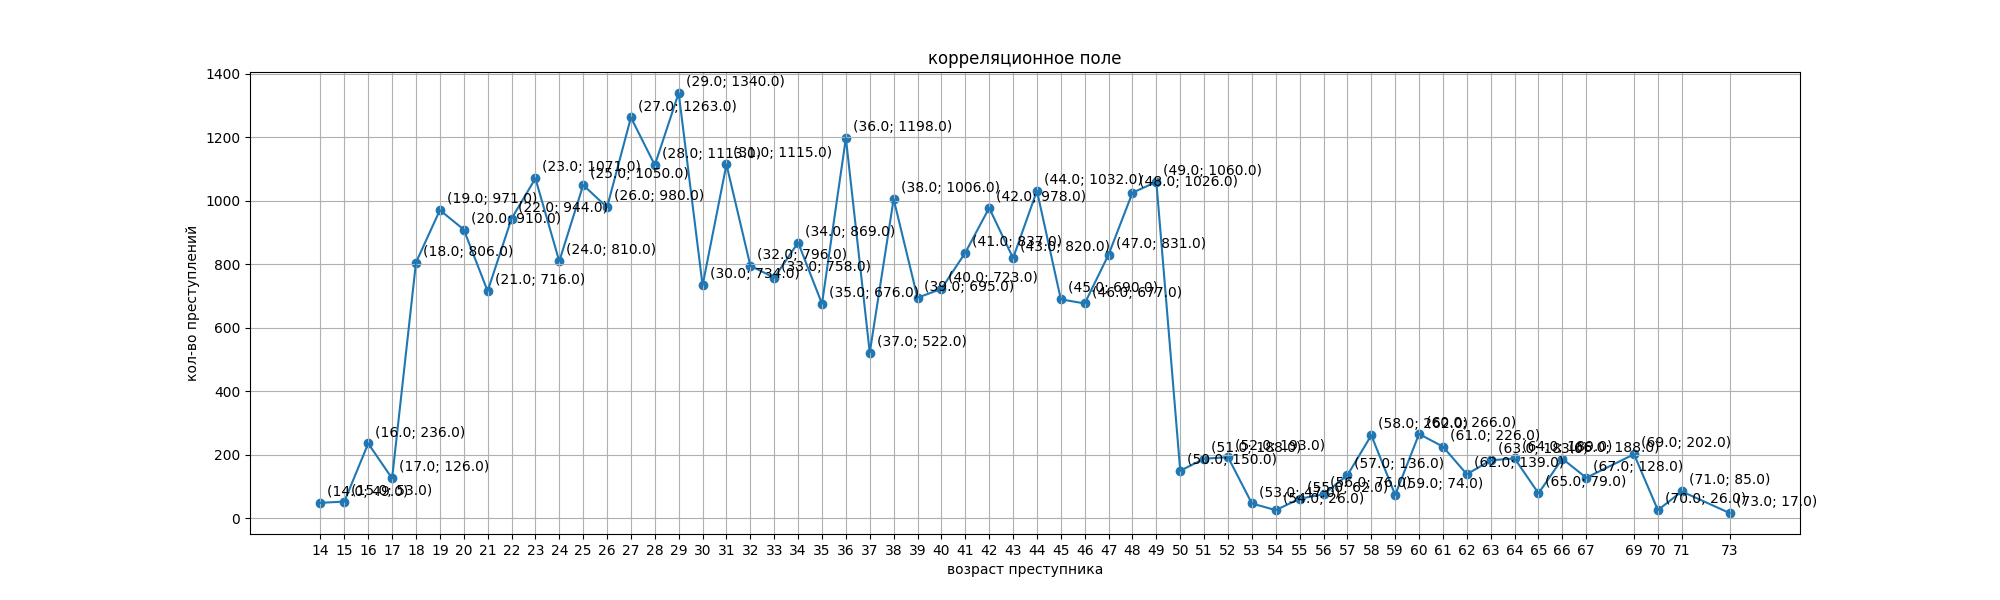
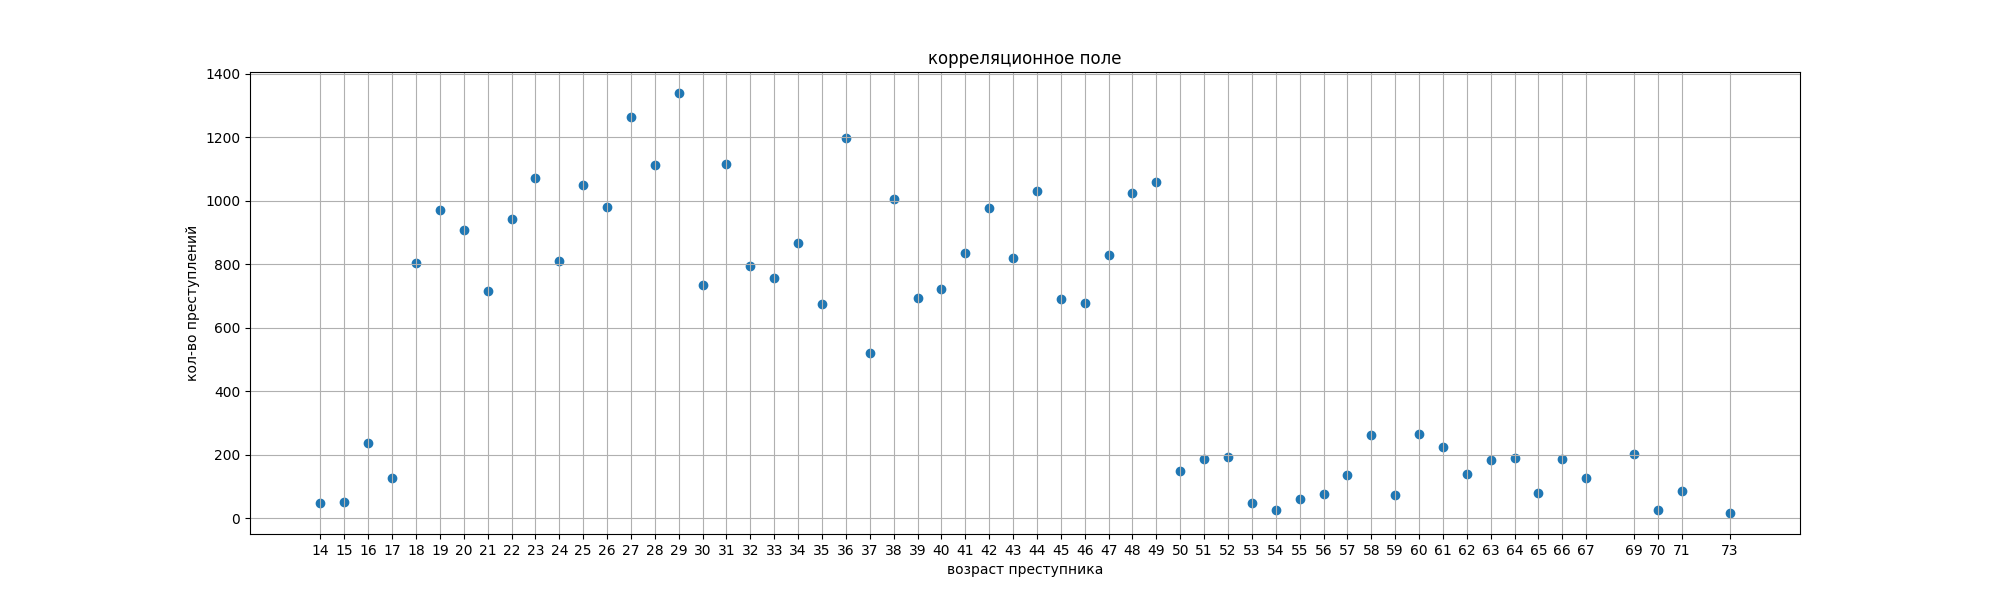
work was completed successfully

diff --git a/LR4.2.py b/LR4.2.py
@@ -1,0 +1,217 @@
+import math
+from math import isclose
+from scipy.stats import rankdata
+
+f = open('Москва_2021.txt', 'r')
+data = sorted([int(i) for i in f.read().split()])
+groups = 7   # число интервалов
+uniques = sorted(list(set(data)))
+interval = math.ceil((max(data) - min(data)) / groups)
+
+# интервальный ряд
+amounts = []
+freqs = []
+for i in range(groups):
+    a = min(data) + i * interval
+    b = a + interval if i < groups - 1 else max(data) + 1  
+    amounts.append((a, b))
+    freqs.append(sum(1 for x in data if a <= x < b))
+
+# print("\nИнтервальный ряд:")
+# for (a, b), f in zip(amounts, freqs):
+#     print(f"[{a}; {b}) : {f}")
+
+number_of_repetitions = {}
+# print("Дискретные ряды:")
+# print("№, Число Кол-во повторений")
+for i in range(len(uniques)):
+    x = uniques[i]
+    frequences = data.count(uniques[i])
+    # print(i + 1, ':', x, '       ', frequences)
+    number_of_repetitions[x] = frequences
+
+# print(number_of_repetitions)
+
+''' Для вычисления внутригрупповой дисперсии, необходимо вычислить
+груповую дисперсию. Для вычисления групповой дисперсии нужно найти 
+групповую среднюю. Групповая средняя = 
+'''
+
+# 1 - вычислить внутригрупповую и межгрупповую дисперсию, проверить справедливость формулы общей дисперсии. 
+
+group_mean = []  # групповая средняя
+for (a, b) in amounts:
+    # Отбираем данные, попадающие в текущий интервал
+    group_data = [x for x in data if a <= x < b]
+    ''' if len(group_data) == 0:
+        group_mean.append(None)  # если данных нет, то None
+        continue '''
+
+    # вычисляем среднее по формуле
+    x_sum = sum(x * number_of_repetitions[x] for x in uniques if a <= x < b)
+    N_j = sum(number_of_repetitions[x] for x in uniques if a <= x < b)
+    x_mean_j = x_sum / N_j
+    group_mean.append(x_mean_j)
+
+# вывод групповых средних
+# print("\nГрупповые средние:")
+# for i, (interval_bounds, mean) in enumerate(zip(amounts, group_mean), start=1):
+#     a, b = interval_bounds
+#     print(f"Группа {i}: [{a}; {b}) → средняя = {mean:.4f}")
+
+
+# вычисление внутригрупповой, межгрупповой и общей дисперсий 
+
+N_total = len(data)
+overall_mean = sum(data) / N_total
+
+group_stats = []
+for (a, b), mean_j in zip(amounts, group_mean):
+    group_data = [x for x in data if a <= x < b]
+    N_j = len(group_data)
+
+    # групповая дисперсия по формуле 𝐷𝑗гр = (1/𝑁𝑗) * sum(𝑥𝑖 − 𝑥̅𝑗)^2 ∙ 𝑛i
+    D_j_gr = sum(((x - mean_j) ** 2) * number_of_repetitions[x] 
+                 for x in uniques if a <= x < b) / N_j
+    group_stats.append((N_j, mean_j, D_j_gr))
+
+# print(*[group_stats[i][2] for i in range(groups)])
+
+# Внутригрупповая: взвешенное среднее по объёмам групп 𝐷внгр = (1/𝑁) * sum(𝐷𝑗гр ∙ 𝑁j)
+D_within = 0.0  # начальное значение внутригрупповой дисперсии
+for gs in group_stats:
+    N_j = gs[0]   # число элементов в группе
+    D_j = gs[2]   # групповая дисперсия
+
+    D_within += D_j * N_j
+D_within = D_within / N_total
+
+# Межгрупповая: дисперсия групповых средних относительно общей средней 𝐷межгр = (1/𝑁) * sum(𝑥̅𝑗 − 𝑥̅)^2 * 𝑁j
+D_between = 0.0
+for gs in group_stats:
+    N_j = gs[0]
+    mean_j = gs[1] # среднее группы
+    D_between += (mean_j - overall_mean) ** 2 * N_j 
+D_between = D_between / N_total
+
+
+# общая дисперсия по всей совокупности 𝐷общ = 1/𝑁 * sum(𝑥𝑖 − 𝑥̅)^2 ∙ 𝑛i
+D_overall = sum(((x - overall_mean) ** 2) * number_of_repetitions[x] 
+                for x in uniques) / N_total
+
+# Вывод
+print("\nСтатистика по группам")
+for idx, ((a,b), (N_j, mean_j, D_j)) in enumerate(zip(amounts, group_stats), start=1):
+    print(f"Группа {idx}: [{a};{b}) — сумма частот в группе ={N_j}, групповая ср. = {mean_j:.4f}, групповая дисп.= {D_j:.6f}")
+
+print("\nДисперсии")
+print(f"Общая средняя (N={N_total}): {overall_mean:.4f}")
+print(f"Внутригрупповая D_вн_гр = {D_within:.6f}")
+print(f"Межгрупповая  D_меж_гр = {D_between:.6f}")
+print(f"Общая D_общ = {D_overall:.6f}")
+
+# Проверка теоремы D_общ = D_вн_гр + D_меж_гр
+sum_parts = D_within + D_between
+diff = D_overall - sum_parts
+print(f"\nПроверка теоремы D_вн_гр + D_меж_гр = D_общ")
+if D_within + D_between == D_overall:
+    print('Теорема выполняется')
+    print(f"{D_within:.3f} + {D_between:.3f} = {D_overall:.3f}")
+else:
+    print('Теорема не выполняется')
+    print(f"{D_within:.3f} + {D_between:.3f} = {D_overall:.3f}")
+
+
+# 2 - Вычислить корреляционное отношение
+'''
+Корреляционной называется зависимость, при которой каждому значению величины X 
+ставится в соответствие среднее значение величины Y
+
+Корреляционное отношение показывает тесноту и форму связи между двумя переменными
+Оно измеряет, насколько хорошо одна переменная может быть предсказана на основе другой, 
+и всегда принимает значения от 0 до 1, где 1 означает полную зависимость вариации y от х. 
+ η^2 = Dмежгрупп/Dобщ
+'''
+eta_squared = D_between / D_overall
+print('\n№ 2')
+print(f"Корреляционное отношение η² = {eta_squared:.4f}")
+print(f"Корреляционное отношение η = {math.sqrt(eta_squared):.4f}")
+
+
+# 3 - Найти коэффициент ранговой корреляции Спирмена
+
+# X — уникальные значения возраста
+X = uniques.copy()
+
+# Y — частоты появления каждого возраста
+Y = [number_of_repetitions[x] for x in X]
+
+# присвоение рангов (средний ранг при повторениях)
+rank_X = rankdata(X)
+rank_Y = rankdata(Y)
+print("\n№ 3 — Ранговая корреляция Спирмена")
+
+# print("X(возраст): | Y (частоты): | Ранг X | Ранг Y")
+# print("-" * 50)
+# for i in range(len(X)):
+#     print(f"{X[i]:10} | {Y[i]:8} | {rank_X[i]:10} | {rank_Y[i]:8}")
+
+# Проверяем, есть ли повторяющиеся ранги
+unique_ranks_X = len(set(rank_X)) == len(rank_X)
+unique_ranks_Y = len(set(rank_Y)) == len(rank_Y)
+
+# Если все ранги уникальны, то простая формула
+if unique_ranks_X and unique_ranks_Y:
+    d_squared_sum = 0.0
+    for i in range(len(rank_X)):
+        d_squared_sum += (rank_X[i] - rank_Y[i]) ** 2
+    n = len(rank_X)
+    r_s = 1 - (6 * d_squared_sum) / (n * (n ** 2 - 1))
+    print(f"\nСумма квадратов разностей рангов: {d_squared_sum:.4f}")
+
+else:
+    mean_rank_X = sum(rank_X) / len(rank_X)
+    mean_rank_Y = sum(rank_Y) / len(rank_Y)
+
+    numerator = 0
+    sum_sq_x = 0
+    sum_sq_y = 0
+
+    for i in range(len(rank_X)):
+        dx = rank_X[i] - mean_rank_X
+        dy = rank_Y[i] - mean_rank_Y
+        numerator += dx * dy
+        sum_sq_x += dx ** 2
+        sum_sq_y += dy ** 2
+
+    denominator = math.sqrt(sum_sq_x * sum_sq_y)
+    r_s = numerator / denominator if denominator != 0 else 0
+
+    print(f"\nСредние значения рангов: X̄ = {mean_rank_X:.3f}, Ȳ = {mean_rank_Y:.3f}")
+
+print(f"Коэффициент ранговой корреляции Спирмена r_s = {r_s:.4f}")
+
+# if r_s == 1:
+#     print("Идеальная положительная монотонная связь: ранги полностью совпадают.")
+# elif r_s == -1:
+#     print("Идеальная отрицательная монотонная связь: ранги полностью противоположны.")
+# elif r_s == 0:
+#     print("Отсутствие монотонной связи между переменными.")
+# else:
+#     direction = "положительная" if r_s > 0 else "отрицательная"
+#     abs_r_s = abs(r_s)
+
+#     if 0.1 <= abs_r_s < 0.3:
+#         strength = "слабая"
+#     elif 0.3 <= abs_r_s < 0.5:
+#         strength = "умеренная"
+#     elif 0.5 <= abs_r_s < 0.7:
+#         strength = "заметная"
+#     elif 0.7 <= abs_r_s < 0.9:
+#         strength = "высокая"
+#     elif 0.9 <= abs_r_s < 1:
+#         strength = "весьма высокая"
+#     else:
+#         strength = "очень слабая или отсутствует"
+
+#     print(f"{strength.capitalize()} {direction} монотонная связь (r_s = {r_s:.4f}).")

diff --git a/LR4.1.py b/LR4.1.py
@@ -1,6 +1,7 @@
 import math
 import pandas as pd
 from scipy import stats
+import matplotlib.pyplot as plt
 
 with open("Москва_2021.txt", 'r') as f:
     a = list(map(int, f))
@@ -12,28 +13,24 @@ discrete = []
 for i in range(len(uniques)):
     age = uniques[i]
     count = a.count(uniques[i])
-    probability = round(count/len(a), 3)
-    frequency = count * probability
-    discrete.append([age, count, frequency])
+    discrete.append([age, count])
 df = pd.DataFrame(discrete)
-df.columns = ["возраст преступника", "кол-во преступлений", "частота преступлений"]
+df.columns = ["возраст преступника", "кол-во преступлений"]
 print(df)
 
+n = len(df["возраст преступника"])
+mean_x = df["возраст преступника"].mean()
+mean_y = df["кол-во преступлений"].mean()
 
-corr_matrix = df[["возраст преступника", "частота преступлений"]].corr()
-corr_matrix
-r = corr_matrix.iloc[0, 1]
+cov_xy = sum((xi - mean_x) * (yi - mean_y) for xi, yi in zip(df["возраст преступника"], df["кол-во преступлений"])) / n
 
-cov_matrix = round(df[["возраст преступника", "частота преступлений"]].cov(), 4)
-print(f"""матрица ковариаций:
-      {cov_matrix}
-""")
-print(f"ковариация: {round(cov_matrix.iloc[0, 1], 4)}\n")
+std_x = (sum((xi - mean_x)**2 for xi in df["возраст преступника"]) / n)**0.5
+std_y = (sum((yi - mean_y)**2 for yi in df["кол-во преступлений"]) / n)**0.5
+r = cov_xy / (std_x * std_y)
 
-std_x = df["возраст преступника"].std()
-std_y = df["частота преступлений"].std()
-print(f"ско x: {round(std_x, 4)}")
-print(f"ско y: {round(std_y, 4)}\n")
+print(f"ковариация: {round(cov_xy, 1)}")
+print(f"ско x: {round(std_x, 1)}")
+print(f"ско y: {round(std_y, 1)}\n")
 
 print(f"коэффициент линейной корреляции между возрастом преступника (X) и частотой совершаемых преступлений (Y) = {round(r, 4)}\n")
 print(f"проверим выполнение свойств коэффициента корреляции Пирсона:\n")
@@ -51,7 +48,7 @@ else:
 data_corr = df.copy()
 data_corr * 2
 data_corr + 10
-data_corr_matrix = data_corr[["возраст преступника", "частота преступлений"]].corr()
+data_corr_matrix = data_corr.corr()
 if data_corr_matrix.iloc[0, 1] == r:
     print("свойство 3) r не меняется от прибавления к х и у постоянных (неслучайных) слагаемых и от умножения х и у на положительные числа - выполняется")
 else:
@@ -84,24 +81,16 @@ k = len(uniques) - 2
 T = (r * math.sqrt(k)) / math.sqrt(1 - r**2)
 print(f"В качестве критерия проверки нулевой гипотезы принимем случайную величину T = {round(T, 5)}")
 
-t_cr = stats.t.ppf(alpha, k)
+t_cr = stats.t.ppf(1 - alpha/2, k)
 print(f"tкр = {round(t_cr, 4)}\n")
 if abs(T) < t_cr:
     print(f"так как |Tнабл| < tнабл, нет оснований отвергнуть нулевую гипотезу")
 else:
     print(f"так как |Tнабл| > tнабл, нуневая гипотеза отвергается")
 
-
-import matplotlib.pyplot as plt
-
 plt.figure(figsize=(20, 6))
 plt.scatter(df["возраст преступника"], df["кол-во преступлений"])
-plt.plot(df["возраст преступника"], df["кол-во преступлений"])
 plt.xticks(df["возраст преступника"])
-
-for i, row in df.iterrows():
-    plt.annotate(f"({row['возраст преступника']}; {row["кол-во преступлений"]:.1f})", (row["возраст преступника"], row["кол-во преступлений"]), textcoords="offset points", xytext=(5, 5))
-
 plt.xlabel("возраст преступника")
 plt.ylabel("кол-во преступлений")
 plt.title('корреляционное поле')
